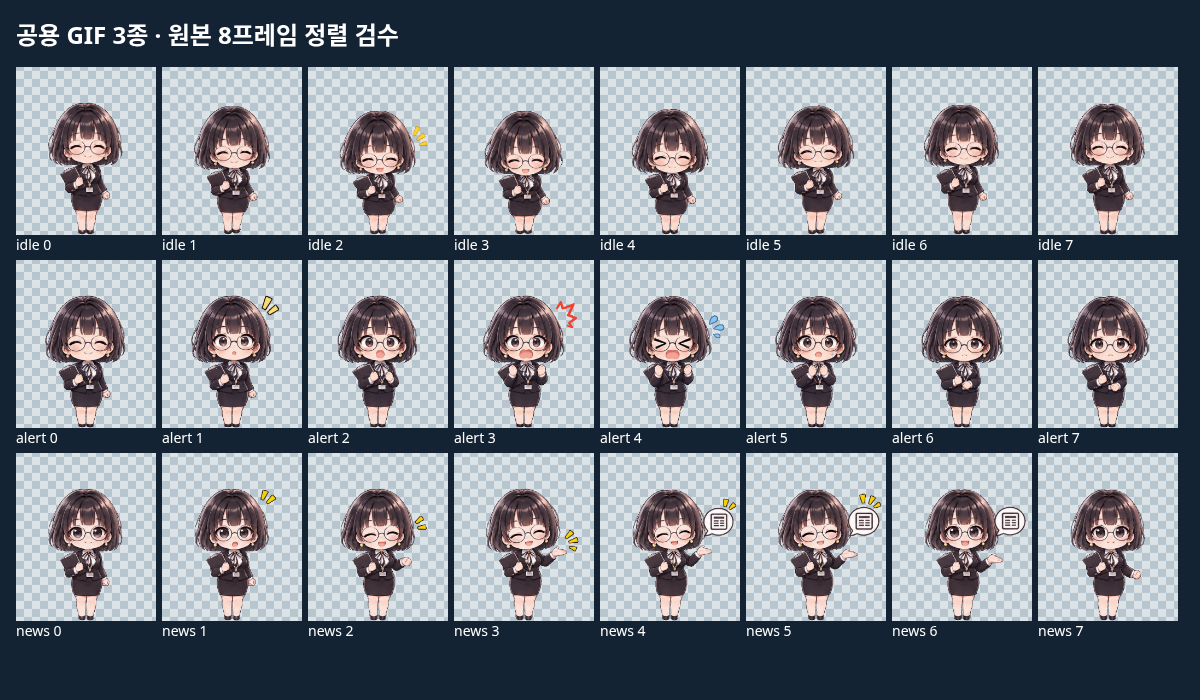
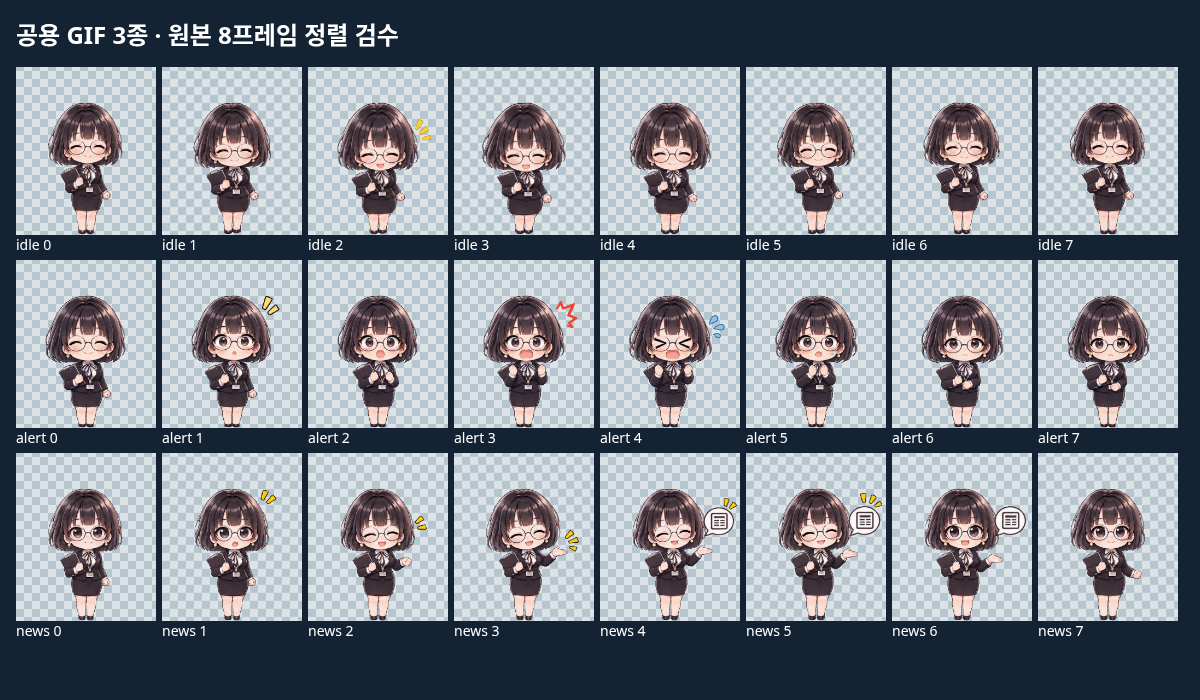
Unify Hina GIF scale across every frame and require scale checks

diff --git a/docs/hina-gifs/preview.html b/docs/hina-gifs/preview.html
@@ -1,1 +1,1 @@
-<!doctype html><html lang="ko"><meta charset="utf-8"><meta name="viewport" content="width=device-width,initial-scale=1"><title>히나 공용 GIF 정렬 검수</title><style>body{margin:24px;background:#122333;color:#e8f2fa;font:16px system-ui}h1{font-size:24px}main{display:grid;grid-template-columns:repeat(3,minmax(0,1fr));gap:20px;max-width:1250px}figure{margin:0}img{display:block;width:100%;aspect-ratio:512/614;object-fit:contain;background:repeating-conic-gradient(#dce3e7 0% 25%,#b7c5ce 0% 50%) 0/20px 20px}figcaption{padding:12px 0}p{color:#bcced9;line-height:1.6}@media(max-width:700px){main{grid-template-columns:1fr}}</style><h1>히나 공용 GIF 3종 · 정렬 검수</h1><p>원본 8프레임과 동작을 보존했습니다. 출력 512×614, 중심 X=256(픽셀 반올림 ±1px), 발 Y=610.<br>손짓은 유지하고 모션마다 일정한 배율만 적용했습니다. IDLE 원본의 고개 움직임은 그대로 남아 있습니다. NEWS는 한 번 재생합니다. 다시 보려면 페이지를 새로고침하세요.</p><main><figure><img src="../../shared/hina/assets/hina-idle.gif" alt="대기 GIF"><figcaption>IDLE · 8프레임 · 1.76초 반복</figcaption></figure><figure><img src="../../shared/hina/assets/hina-alert.gif" alt="오류 GIF"><figcaption>ALERT · 8프레임 · 1.44초 반복</figcaption></figure><figure><img src="../../shared/hina/assets/hina-news.gif" alt="소식 GIF"><figcaption>NEWS · 8프레임 · 1.60초</figcaption></figure></main></html>
+<!doctype html><html lang="ko"><meta charset="utf-8"><meta name="viewport" content="width=device-width,initial-scale=1"><title>히나 공용 GIF 정렬 검수</title><style>body{margin:24px;background:#122333;color:#e8f2fa;font:16px system-ui}h1{font-size:24px}main{display:grid;grid-template-columns:repeat(3,minmax(0,1fr));gap:20px;max-width:1250px}figure{margin:0}img{display:block;width:100%;aspect-ratio:512/614;object-fit:contain;background:repeating-conic-gradient(#dce3e7 0% 25%,#b7c5ce 0% 50%) 0/20px 20px}figcaption{padding:12px 0}p{color:#bcced9;line-height:1.6}@media(max-width:700px){main{grid-template-columns:1fr}}</style><h1>히나 공용 GIF 3종 · 정렬 검수</h1><p>원본 8프레임과 동작을 보존했습니다. 출력 512×614, 중심 X=256(픽셀 반올림 ±1px), 발 Y=610.<br>손짓은 유지하고 모든 프레임의 실제 높이를 480px로 맞췄습니다. 가로·세로에는 동일한 배율을 적용했습니다. IDLE 원본의 고개 움직임은 그대로 남아 있습니다. NEWS는 한 번 재생합니다. 다시 보려면 페이지를 새로고침하세요.</p><main><figure><img src="../../shared/hina/assets/hina-idle.gif" alt="대기 GIF"><figcaption>IDLE · 8프레임 · 1.76초 반복</figcaption></figure><figure><img src="../../shared/hina/assets/hina-alert.gif" alt="오류 GIF"><figcaption>ALERT · 8프레임 · 1.44초 반복</figcaption></figure><figure><img src="../../shared/hina/assets/hina-news.gif" alt="소식 GIF"><figcaption>NEWS · 8프레임 · 1.60초</figcaption></figure></main></html>

diff --git a/shared/hina/bundled-web-manifest.js b/shared/hina/bundled-web-manifest.js
@@ -1,2 +1,2 @@
 // Generated from assets/manifest.json; refresh with the manifest update script.
[2 lines of base64/hex data omitted]

diff --git a/docs/hina-gifs/README.md b/docs/hina-gifs/README.md
@@ -2,15 +2,13 @@
 
 | IDLE | ALERT | NEWS |
 |---|---|---|
-| ![대기](../../shared/hina/assets/hina-idle.gif) | ![실제 오류](../../shared/hina/assets/hina-alert.gif) | ![새 소식](../../shared/hina/assets/hina-news.gif) |
+| <img src="../../shared/hina/assets/hina-idle.gif" width="180" height="216" alt="대기"> | <img src="../../shared/hina/assets/hina-alert.gif" width="180" height="216" alt="실제 오류"> | <img src="../../shared/hina/assets/hina-news.gif" width="180" height="216" alt="새 소식"> |
 | 8프레임 / 1.76초 반복 | 8프레임 / 1.44초 반복 | 8프레임 / 1.60초 1회 |
 
 - [24프레임 비교](contact-sheet.png), [움직이는 로컬 미리보기](preview.html), [PC](web-pc.png), [모바일](web-mobile.png).
-- 512×614 투명 GIF. 기준 신장 480px, 발 Y=610, 중심 X=256(픽셀 반올림 ±1px).
-  손짓/말풍선 효과가 오른쪽으로 뻗는 프레임도 잘리지 않도록 같은 기준 신장을 사용했다.
-  ALERT 기준 배율은 IDLE/NEWS보다 약 1.9% 키워 세 동작의 기본 신장을 맞췄다.
-- 기준 프레임의 가시 폭은 IDLE 272px, ALERT 292px, NEWS 270px이다. 원본의 머리·몸 비율 차이는 남아 있으며, 이를 없애기 위해 신체를 비선형 변형하지 않았다. 기준 신장·발·중심 정렬과 별도로 시각 승인이 필요하다.
-- 원본 IDLE의 고개 움직임은 보존했다. 머리·몸·팔을 비선형 변형하거나 프레임을 재생성하지 않았다.
+- 512×614 투명 GIF. **24프레임 모두 캐릭터 실루엣 높이 480px**, 발 Y=610, 중심 X=256(픽셀 반올림 ±1px).
+- 첫 프레임의 배율을 전체 GIF에 재사용하던 방식 대신, 각 프레임에서 머리~발 높이를 측정해 가로·세로에 동일한 배율을 적용했다. IDLE이 중간 프레임에서 작아지는 현상을 수정했다.
+- 손짓·효과와 프레임 수/시간은 보존하고 비선형 워핑·팔다리 재생성은 하지 않았다. 미리보기의 세 이미지 표시 폭·높이도 동일하게 고정했다.
 - 원본 ZIP은 [sources/hina](../../sources/hina/hina_3_gifs_original.zip)에 별도 보존했다.
   `scripts/normalize-hina-gifs.mjs`가 원본의 8프레임/시간을 유지하여 정렬 GIF와 manifest를 갱신한다.
 
@@ -52,9 +50,9 @@ npm run test:idle-browser
 작업 결과 연동은 `window.dispatchEvent(new CustomEvent('hina:news',{detail:{id:'고유-결과-ID'}}))`를 사용한다.
 다른 부서 에이전트나 외부 뉴스 백엔드를 새로 연결한 것은 아니다.
 
-검수 브랜치의 Windows CI가 성공한 설치본만 제공한다. 사용자 PC 확인과 정렬본 운영 반영 승인은 별도다.
+Windows CI가 성공한 설치본만 제공한다. 사용자 PC에서의 최종 표시는 별도 확인이 필요하다.
 
-## 검수 결과 및 설치본
+## 이전 검수 결과 및 설치본 (v1.3.0)
 
 - 커밋 `09ab79b` / 검수 브랜치 `hina-shared-gifs-v1`. 운영 main과 Pages는 변경하지 않았다.
 - Node 33개, 공용 GIF 브라우저 10항목, 기존 입력·캐시 복구 및 8종 Idle/403 브라우저 17항목 통과.
@@ -64,4 +62,9 @@ npm run test:idle-browser
   기존 히나 종료 후 설치하며 사용자 PC의 실제 표시 확인은 남아 있다.
[1 lines of base64/hex data omitted]
 - 외부 이벤트는 같은 id를 재생하지 않는다. 다른 새 id는 캐시 Blob으로 첫 프레임부터 다시 시작한다.
-- 운영 반영은 AGENTS.md의 “사용자 승인 전에는 GitHub 운영 에셋 교체·배포를 하지 않는다”에 따라 미리보기 확인 후 진행한다.
+## 스케일 수정 및 운영 반영 (v1.3.1)
+
+- 사용자의 “모두 똑같이 맞추고, 배포하자” 지시에 따라 전체 프레임 스케일과 비교 이미지 크기를 통일하고 운영 배포한다.
+- 24프레임 모두 높이 480px, 상단 Y=131, 발 Y=610, 발 중심 X=256±1px. 캔버스 512×614, 원본 8프레임·시간·투명 배경 보존.
+- 공용 GIF 검수 10항목 통과. 최종 Windows 빌드와 Pages 결과는 아래에 기록한다.
+- 공통/데스크톱 AGENTS.md에 전체 프레임 스케일 통일 및 실측·재생 검수 양식을 필수로 추가했다.

diff --git a/AGENTS.md b/AGENTS.md
@@ -48,6 +48,14 @@
 - 기존 프로젝트에 기준 캔버스가 있으면 그 값을 우선 사용한다. 히나 비서 현재 기준은 출력 512×614, centerX=256, footY=610이며 원본은 1145×1373이다. 기준 변경 시 전체 모션 정렬과 앱 표시를 함께 검증한다.
 - 제작 완료 후 실제 움직이는 미리보기를 사용자에게 먼저 제시하고, **사용자 승인 전에는 GitHub 운영 에셋 교체·배포를 하지 않는다**. 검수 미완료 상태는 명확히 표시한다.
 
+## 공용 GIF·애니메이션 작업 필수 스케일 검수
+- **스케일 통일은 필수 완료 조건이다.** 캔버스가 같거나 첫 프레임만 맞는 것으로 완료 처리하지 않는다.
+- 작업 양식에 기준 캐릭터 신장, 머리·몸통 기준 크기, 중심 X, 발 Y, 모든 프레임의 실측 범위와 허용 오차를 기록한다. 손짓·말풍선·효과·투명 여백을 캐릭터 크기 기준에 포함하지 않는다.
+- 모든 GIF의 모든 프레임을 비교해 캐릭터가 작아지거나 커지지 않는지 확인한다. 히나 공용 GIF 기준은 512×614, 실루엣 높이 480px, 중심 X=256(픽셀 반올림 ±1px), 발 Y=610이다. 원본 포즈 변화가 스케일 차이로 보이면 프레임별로 가로·세로 동일 배율의 전체 캐릭터 보정을 적용한다.
+- 얼굴·몸을 비선형 워핑하거나 가로·세로를 독립적으로 늘이지 않는다. 필수 정렬을 못 맞춘 경우 남은 차이를 명시하고 완료로 보고하지 않는다.
+- 웹·Windows 실제 렌더와 비교 미리보기 모두 같은 표시 폭·높이·앵커를 사용한다. 특히 Markdown 표의 자동 열 너비에 맡기지 말고 비교 이미지 표시 크기를 고정한다.
+- IDLE→ALERT→IDLE, IDLE→NEWS→IDLE 및 루프 경계의 스케일·중심·발 위치를 자동 측정과 실제 재생으로 검수한 후 배포한다. 원본은 별도 보존한다.
+
 ## 게임 개발 부서 조직 (공통 스튜디오)
 - 총괄 디렉터(사용자)가 목표와 최종 승인권을 가진다. 히나 총괄 에이전트는 업무 분류·담당 부서 지정·결과 취합을 담당한다.
 - **기획팀**: 게임 규칙, 시스템, 밸런스, 완료 조건 정의.

diff --git a/desktop/AGENTS.md b/desktop/AGENTS.md
@@ -49,3 +49,14 @@
 - 변경된 모션만 재생성하고 관련 에셋만 검증·배포한다. 기존 정상 GIF와 원본 PNG는 재생성하지 않는다.
 - 빠른 정적 검사와 소수 대표 프레임 검수를 먼저 수행하고, 전체 렌더·장시간 테스트는 필요할 때만 한다.
 - 비용을 낮추는 방식과 결과 품질을 비교하여 가장 단순한 유효한 방법을 우선 선택한다. 시각 품질이 떨어지는 편법 워핑은 금지한다.
+
+## 공용 GIF 스케일 필수 검수 양식
+- 입력 파일 / 원본 백업 위치:
+- 기준 캔버스 / 캐릭터 신장 / 머리·몸통 기준 / 중심 X / 발 Y:
+- GIF별 전체 프레임 수와 실측 크기 범위 / 허용 오차:
+- 모든 프레임 스케일 통일 및 동일 배율 보정 결과:
+- 동일 표시 크기의 움직이는 비교 미리보기:
+- 웹 PC·모바일 / Windows EXE 전환·루프 검수 결과:
+- 승인·배포 여부 / 남은 문제:
+
+빈 항목이나 미검수 항목이 있으면 스케일 통일을 완료했다고 보고하지 않는다. 첫 프레임만 맞추거나 비교 이미지의 표시 크기를 다르게 두는 방식은 금지한다.
